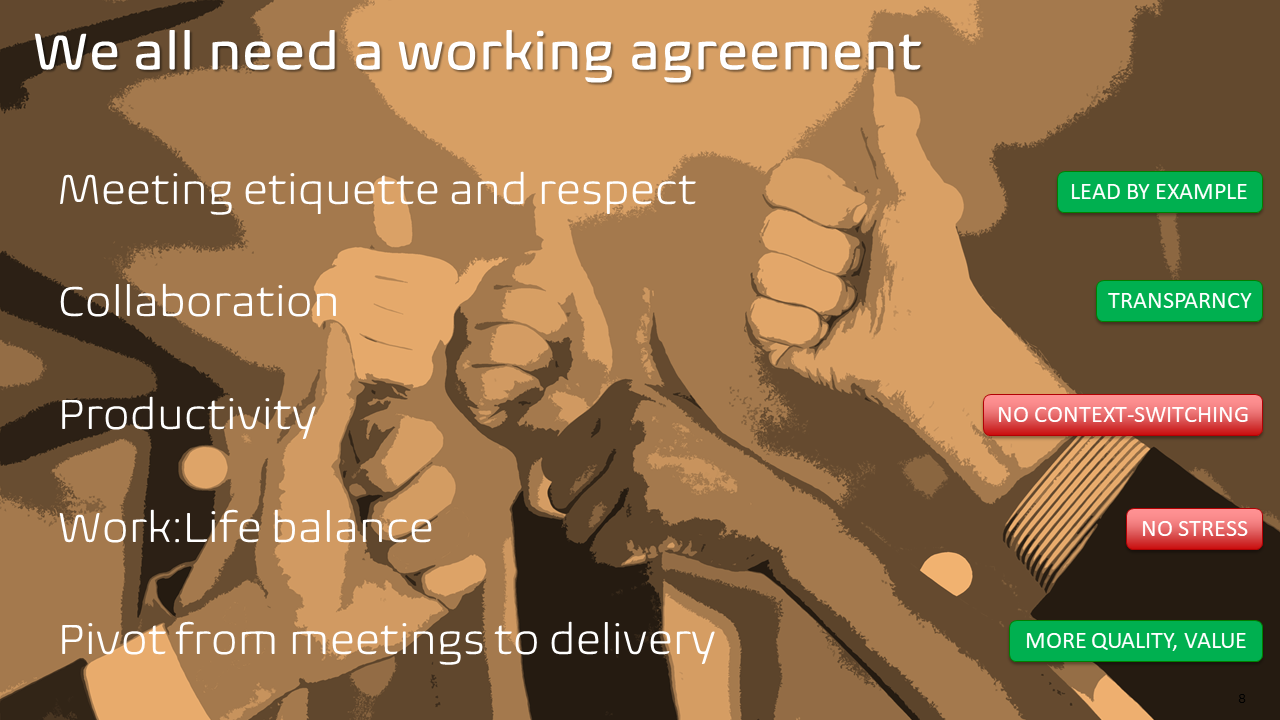
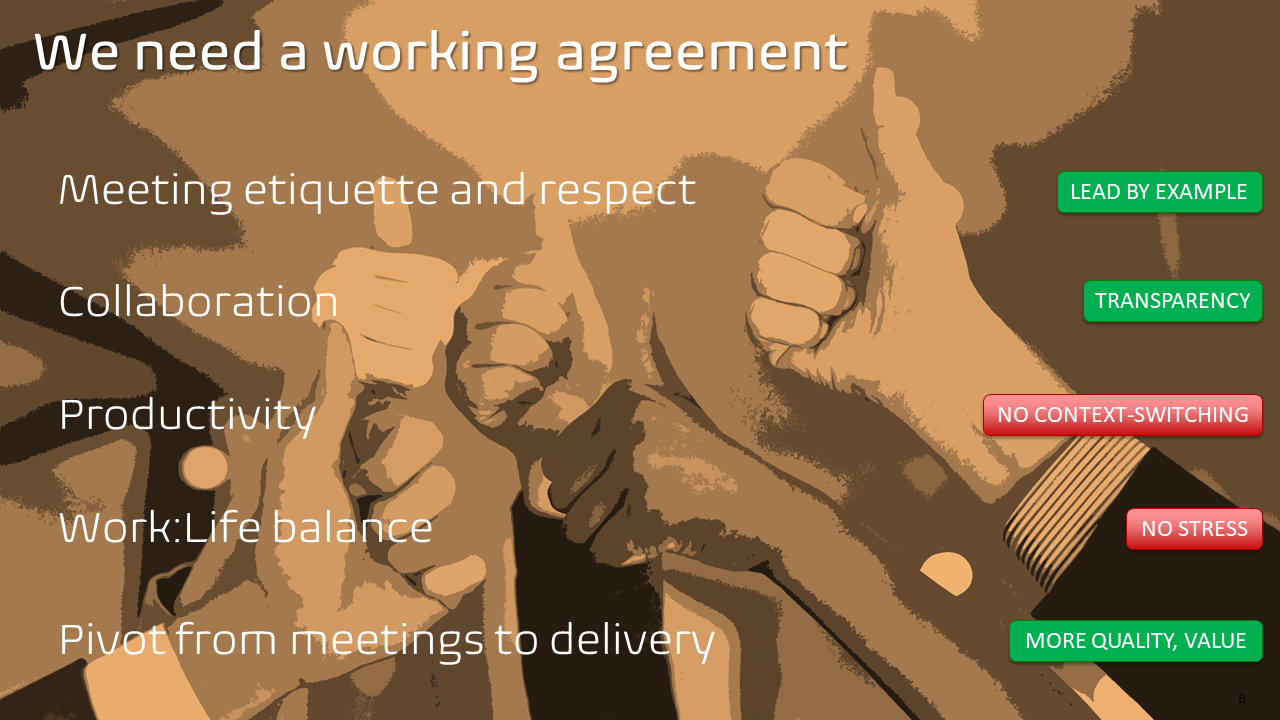
Fine-tune images and text

Changed region(s): [[0.0938, 0.0306, 0.7188, 0.1222], [0.8438, 0.3667, 0.9688, 0.4583]]

diff --git a/content/stop-the-meeting-hell.md b/content/stop-the-meeting-hell.md
@@ -1,4 +1,4 @@
-Title: Stop the meeting nightmare!
+Title: Stop the meeting overload!
 Date: 20212-02-25
 Category: Posts
 Tags: eliminate-waste
@@ -28,7 +28,7 @@ For the person being teleported out of the meeting it means a context switch …
 
 Back to the actual topic … can we stop the meeting madness? So, what is the actual problem?
 
-We have to choose whether we want to improve productivity and balance work:life, or continue the multi-tasking, context-switching madness. 
+We have to choose whether we want to improve productivity and balance work:life, or continue the multi-tasking, context-switching overload. 
 
 The choice is yours … my team and I are taking the right turn!
 
